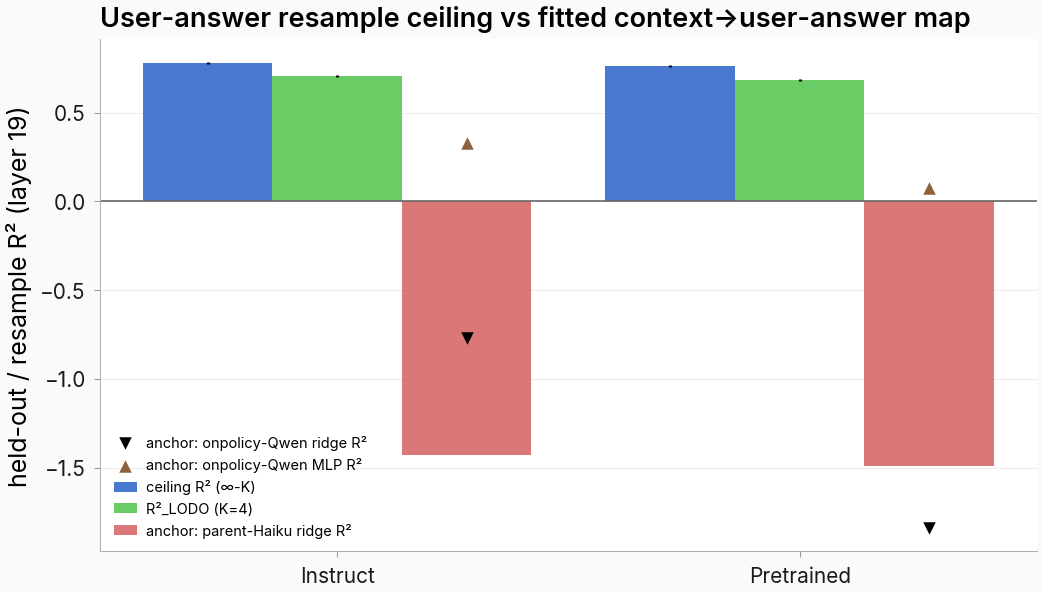
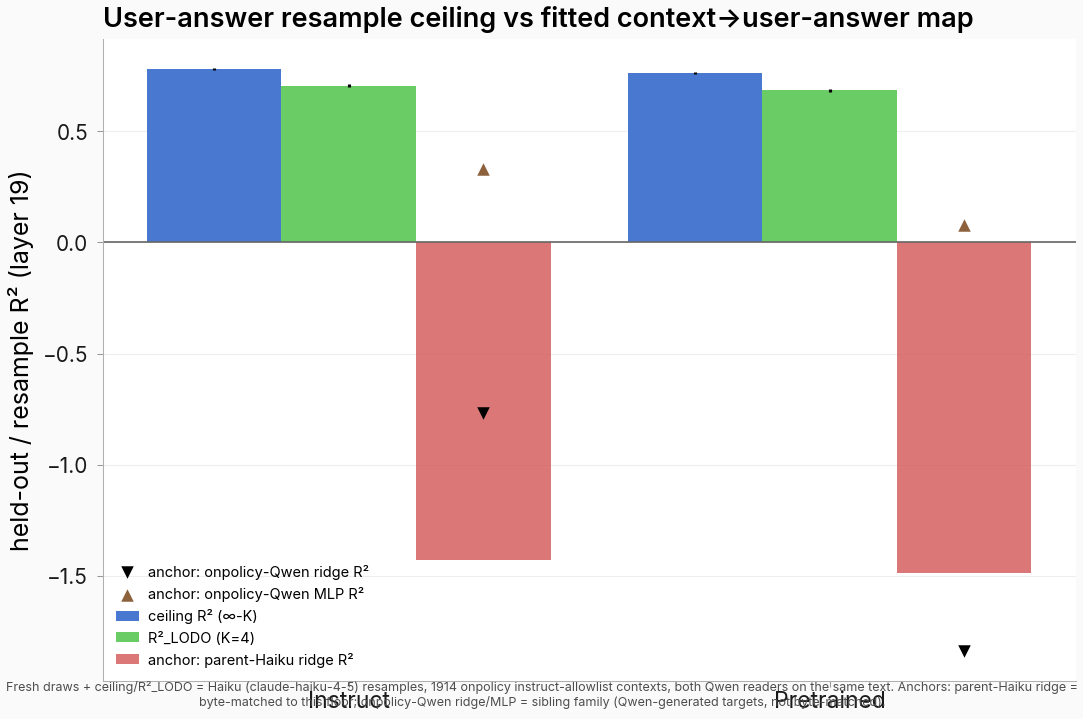
issue #825 kresample-user: per-arm anchor provenance in JSON + figure caption
Team-lead follow-up: make the Haiku-byte-matched vs Qwen-sibling-family anchor
provenance explicit in floor_summary.json (anchor_provenance field) and the
figure caption setup line. Numbers unchanged (ceiling 0.78/0.76, parity 0.99998).

diff --git a/scripts/issue825_kresample_user_floor.py b/scripts/issue825_kresample_user_floor.py
@@ -272,7 +272,7 @@ def make_figure(results: dict, fig_path: Path):
         pass
 
     readers = [r for r in ("instruct", "pretrained") if r in results]
-    fig, ax = plt.subplots(figsize=(7.2, 4.2))
+    fig, ax = plt.subplots(figsize=(7.2, 4.8))
     x = np.arange(len(readers))
     w = 0.28
     ceil = [results[r]["per_layer"][str(HEADLINE_LAYER)]["ceiling_r2_infinite_k"] for r in readers]
@@ -310,10 +310,25 @@ def make_figure(results: dict, fig_path: Path):
     ax.axhline(0.0, color="0.4", lw=0.8)
     ax.set_xticks(x)
     ax.set_xticklabels([r.capitalize() for r in readers])
+    ax.tick_params(axis="x", labelsize=11, pad=2)
     ax.set_ylabel(f"held-out / resample R² (layer {HEADLINE_LAYER})")
     ax.set_title("User-answer resample ceiling vs fitted context→user-answer map")
     ax.legend(fontsize=7, frameon=False, ncol=1, loc="lower left")
-    fig.tight_layout()
+    # Provenance setup line (per-arm; ad-hoc-figure disclosure rule): the fresh
+    # draws + ceiling/LODO bars are HAIKU (claude-haiku-4-5) resamples over the
+    # onpolicy instruct-allowlist contexts (n=1914). The parent-Haiku ridge
+    # anchor is BYTE-MATCHED to this floor; the onpolicy-Qwen ridge/MLP anchors
+    # are the SIBLING family (Qwen-generated u2 targets), which the normalized
+    # variance-fraction ceiling bounds but is not byte-matched to.
+    caption = (
+        "Fresh draws + ceiling/R²_LODO = Haiku (claude-haiku-4-5) resamples, "
+        "1914 onpolicy instruct-allowlist contexts, both Qwen readers on the same text. "
+        "Anchors: parent-Haiku ridge = byte-matched to this floor; "
+        "onpolicy-Qwen ridge/MLP = sibling family (Qwen-generated targets, not byte-matched)."
+    )
+    ax.set_xlabel("")  # reader names are the tick labels; keep the caption band clear
+    fig.subplots_adjust(bottom=0.24)
+    fig.text(0.5, 0.015, caption, ha="center", va="bottom", fontsize=6, wrap=True, color="0.3")
     fig.savefig(fig_path, dpi=150)
     plt.close(fig)
 
@@ -375,6 +390,17 @@ def main() -> None:
             "trvar": "per-context variance across the K fresh draws, ddof=1, summed over hidden dims",
         },
         "anchors_layer19": ANCHORS,
+        "anchor_provenance": {
+            "parent_haiku_ridge": "BYTE-MATCHED anchor for this Haiku floor: parent #825 user-turn "
+            "map, Haiku-generated u2, same reader + span rule (eval_results/issue_825/"
+            "cells_M_{instruct,pretrained}_user_chat.json, layer 19).",
+            "onpolicy_qwen_ridge": "SIBLING family (NOT byte-matched): onpolicy-user-turn map, "
+            "Qwen-on-policy u2 targets (eval_results/issue_825/onpolicy-user-turn/); the "
+            "normalized variance-fraction ceiling bounds it but the targets differ from the "
+            "Haiku resample distribution.",
+            "onpolicy_qwen_mlp": "SIBLING family (NOT byte-matched): onpolicy-user-turn MLP R^2 "
+            "on the same Qwen-on-policy targets.",
+        },
         "issue_1482_en_comparison": ISSUE1482_EN,
         "provenance_caveat": (
             "Fresh draws are HAIKU (claude-haiku-4-5-20251001) resamples, byte-matched to the "
